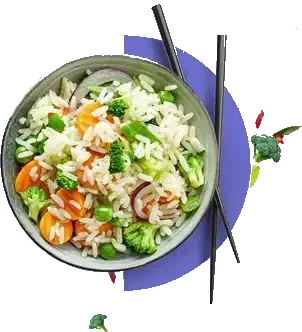
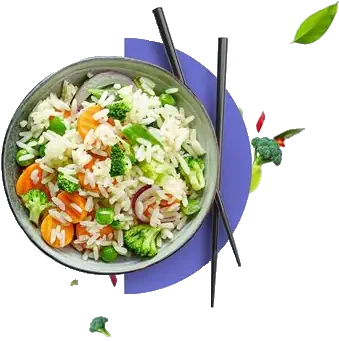
add leaf row1 update text top-part <p> row3

diff --git a/index.html b/index.html
@@ -23,18 +23,25 @@
     <div class="container first">
         <div class="row1">
             <div class="top-row1">
-              <div class="left-column-row1">
-               <img style="width: 450px;" src="./img/title.webp " alt="text 'Rice bowl'">
-               <p>Lorem ipsum dolor sit, amet consectetur adipisic elit. Lorem ipsum dolor sit amet consectetur, adipisicing elit. Dignissimos, nisi. Nemosu suntnisimor repellendus facere eveniet of type.</p>
-               <a href="#">VIEW OUR MENU</a>
-              </div>
-              <div class="right-column-row1">
-                <img class="plate-top" src="./img/veg-plate-top.webp" alt="vegetable-plate">
-              </div>
+                <div class="left-column-row1">
+                    <img style="width: 450px;" src="./img/title.webp " alt="text 'Rice bowl'">
+                    <p>Lorem ipsum dolor sit, amet consectetur adipisic elit. Loremip  dolor sit amet consectetur, adipisicing elit. Dignissimos, nisielit. Nemosu suntnisimor repellendus facere eveniet of type.</p>
+                    <a href="#">VIEW OUR MENU</a>
+                </div>
+                <div class="right-column-row1">
+                    <img class="plate-top" src="./img/veg-plate-top.webp" alt="vegetable-plate">
+                </div>
             </div>
-            <div class="bottom-row1">
-                <h1>WHAT SHOULD I EAT IF I AM ?</h1>
-                <button>COUNTING COLORIES</button>
+        </div>
+    </div>
+    <div class="container first-botom">
+        <div class="bottom-row1">
+            <div class="leafrow1">
+              <img src="./img/tree-leaf.webp" alt="leaf">
+            </div>
+            <div class="what-i-eat">
+              <h1>WHAT SHOULD I EAT IF I AM ?</h1>
+              <button>COUNTING COLORIES</button>
             </div>
         </div>
     </div>

diff --git a/css/main.css b/css/main.css
@@ -37,6 +37,7 @@ body {
 
 .main-header img{
     width: 270px;
+    margin-left: 25px;
 }
 
 .main-header-nav{
@@ -74,6 +75,12 @@ body {
 }
 
 .left-column-row1{
+    width: 45%;
+    margin: 0;
+    padding: 0;
+}
+.right-column-row1{
+    width: 50%;
     margin: 0;
     padding: 0;
 }
@@ -101,21 +108,47 @@ body {
     transition: 0.4s;
 }
 
-.right-column-row1{
-    margin-left: 20px;
-}
 
 .plate-top{
     width: 770px;
 }
 
+.first-botom{
+    display: flex;
+    justify-content: center;
+    flex-direction: row;
+    background-color:#D8EAF6  ;
+}
+
+
 .bottom-row1 {
+    width: 1700px;
     display: flex;
     justify-content: center;
     align-items: center;
-    flex-direction: column;
+    flex-direction: row;
     margin-top: 20px;
 }
+
+.what-i-eat{
+    width: 80%;
+    text-align: center;
+   align-items: center;
+   margin-right: 300px;
+}
+
+.leafrow1{
+    margin-left: 50px;
+    width: 15%;
+    display: flex;
+    align-self: flex-start;
+}
+
+.leafrow1 img{
+    width: 100px;
+    margin-right: 10px;
+}
+
 
 .bottom-row1 h1{
     font-size: 35px;
@@ -177,6 +210,7 @@ body {
     font-size: 18px;
     width: 500px;
     color: rgba(0, 0, 0, 0.6);
+    margin-top: 15px;
 }
 
 .right-column-row2 a{
@@ -239,7 +273,7 @@ body {
 .header-row3 p{
     text-align: center;
     width: 450px;
-    font-size: 18px;
+    font-size: 16px;
     margin-top: 10px;
     margin-bottom: 30px;
     padding: 0;
@@ -413,6 +447,7 @@ body {
     display: flex;
     align-self: flex-start;
     width: 100px;
+    margin-right: 10px;
 }
 
 .fifth{
